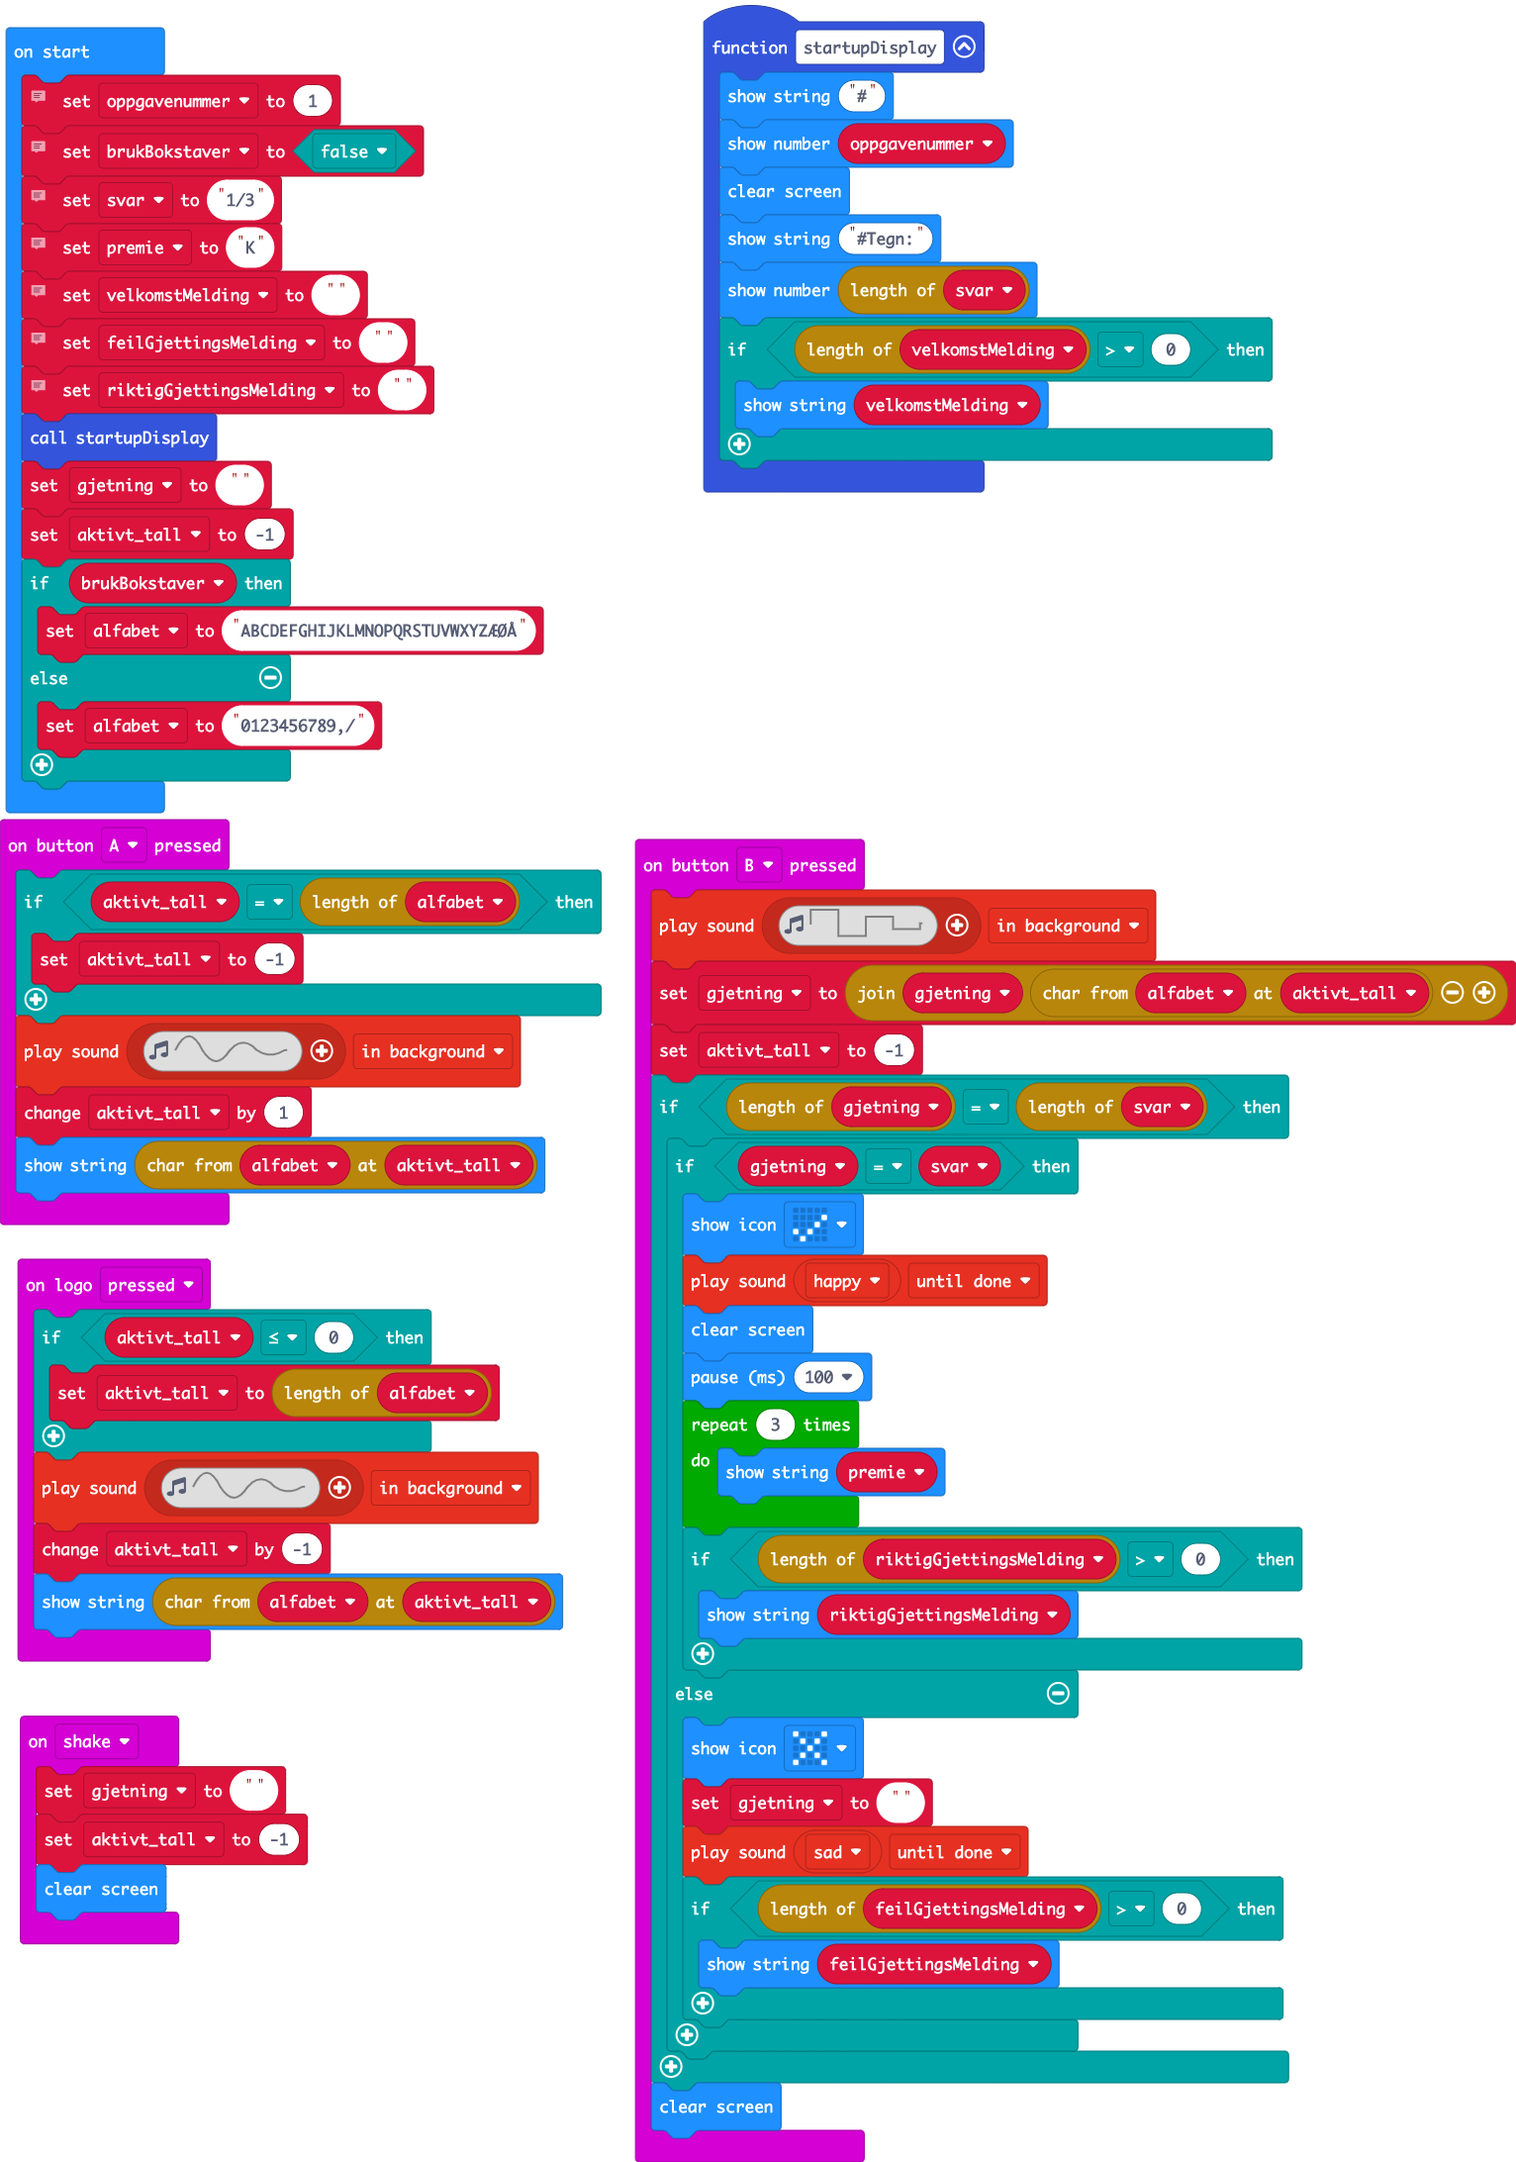
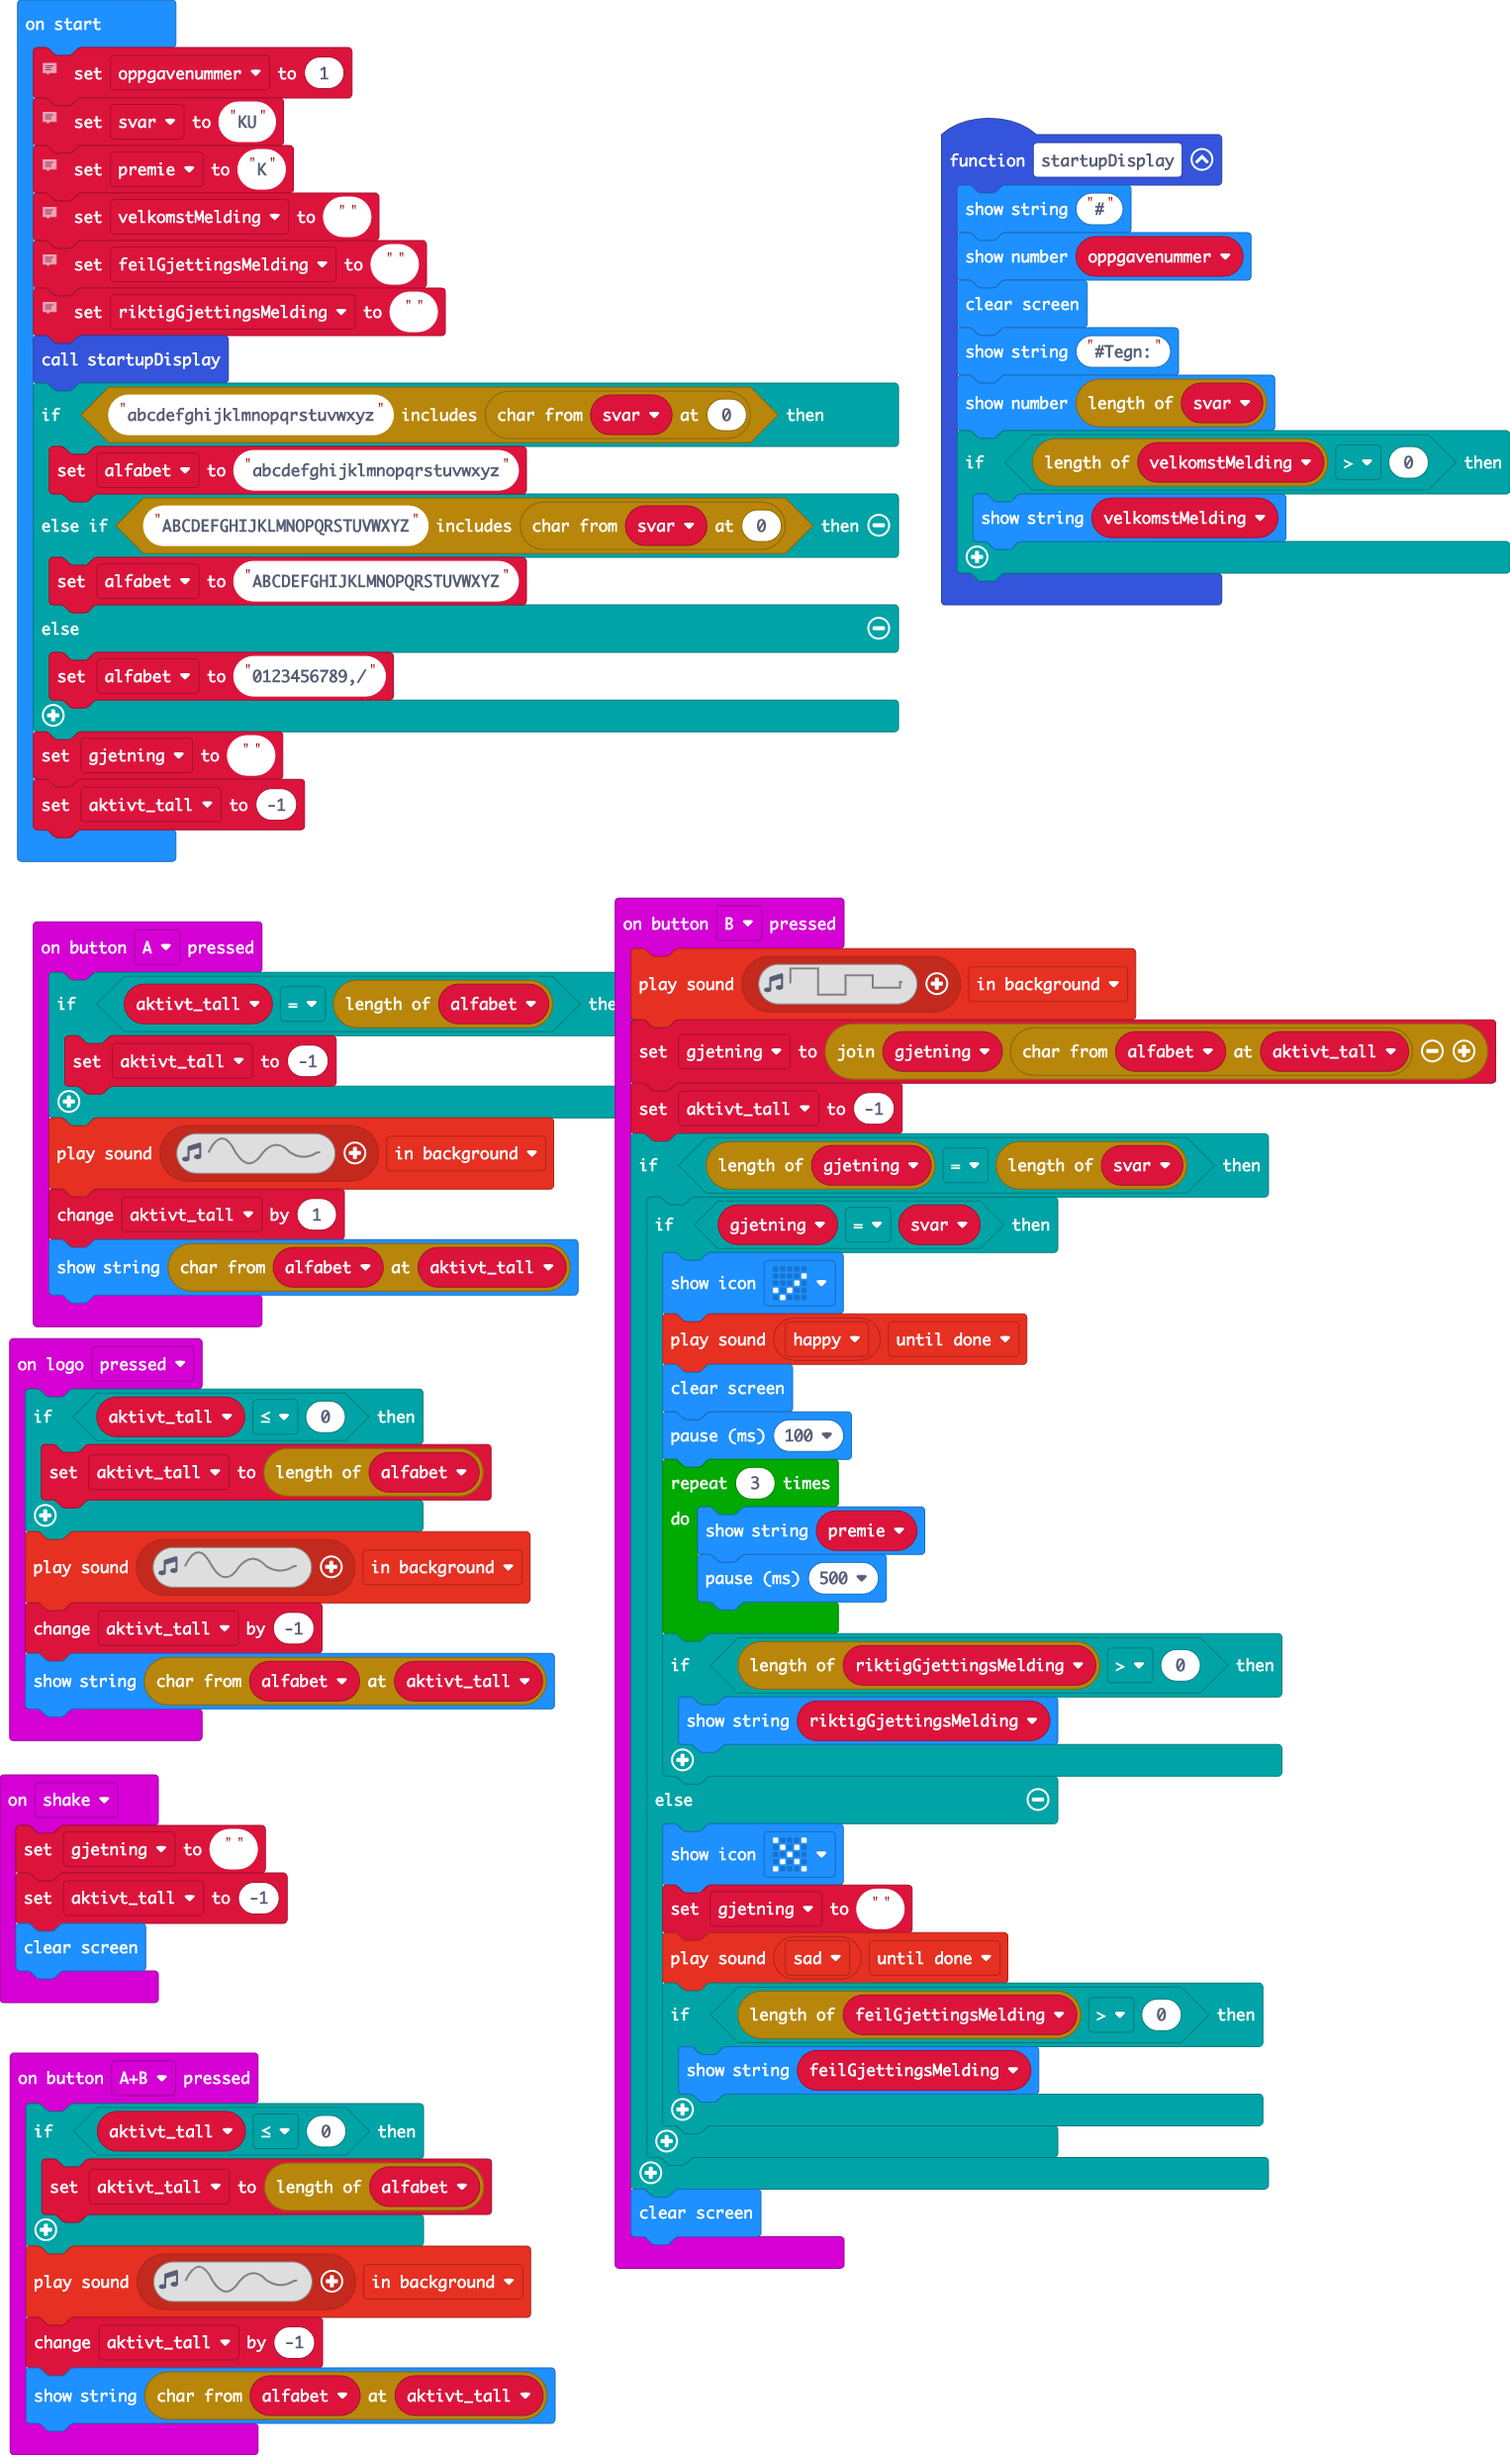
removes brukBokstaver bool and infers answer type from svar

diff --git a/main.ts b/main.ts
@@ -6,6 +6,14 @@ input.onButtonPressed(Button.A, function () {
     aktivt_tall += 1
     basic.showString(alfabet.charAt(aktivt_tall))
 })
+input.onButtonPressed(Button.AB, function () {
+    if (aktivt_tall <= 0) {
+        aktivt_tall = alfabet.length
+    }
+    music.playSoundEffect(music.createSoundEffect(WaveShape.Sine, 500, 500, 255, 0, 15, SoundExpressionEffect.Vibrato, InterpolationCurve.Linear), SoundExpressionPlayMode.InBackground)
+    aktivt_tall += -1
+    basic.showString(alfabet.charAt(aktivt_tall))
+})
 input.onButtonPressed(Button.B, function () {
     music.playSoundEffect(music.createSoundEffect(WaveShape.Square, 400, 600, 255, 0, 100, SoundExpressionEffect.Warble, InterpolationCurve.Linear), SoundExpressionPlayMode.InBackground)
     gjetning = "" + gjetning + alfabet.charAt(aktivt_tall)
@@ -18,6 +26,7 @@ input.onButtonPressed(Button.B, function () {
             basic.pause(100)
             for (let index = 0; index < 3; index++) {
                 basic.showString(premie)
+                basic.pause(500)
             }
             if (riktigGjettingsMelding.length > 0) {
                 basic.showString(riktigGjettingsMelding)
@@ -56,9 +65,9 @@ input.onLogoEvent(TouchButtonEvent.Pressed, function () {
     aktivt_tall += -1
     basic.showString(alfabet.charAt(aktivt_tall))
 })
-let alfabet = ""
 let aktivt_tall = 0
 let gjetning = ""
+let alfabet = ""
 let riktigGjettingsMelding = ""
 let feilGjettingsMelding = ""
 let velkomstMelding = ""
@@ -67,10 +76,8 @@ let svar = ""
 let oppgavenummer = 0
 // Denne variabelen er et heltall (integer). Dette er oppgavenummeret eller postnummeret. Det kan hjelpe deg å sortere microbitene og det kan hjelpe elevene til å finne ut rekkefølgen på oppgavene.
 oppgavenummer = 1
-// Denne variabelen er en boolean (enten true eller false). Hvis du setter den til true så må svaret kun inneholde bokstaver. Dersom den settes til false må svaret kun inneholde tall.
-let brukBokstaver = false
 // Denne variabelen er en tekststreng (string). Strengen kan enten inneholde bokstaver eller tall. Hvis du bruker bokstaver må brukBokstaver settes til true. Hvis du bruker tall må brukBokstaver settes til false.
-svar = "1/3"
+svar = "KU"
 // Denne variabelen er en tekststreng (string). Dette er premien eller hintet som elevene får med seg videre til neste oppgave
 premie = "K"
 // Denne meldingen vises til elevene før oppgaven. Kan f.eks. inneholde hint.
@@ -80,10 +87,12 @@ feilGjettingsMelding = ""
 // Denne teksten vises til elevene hvis de gjetter riktig. Kan f.eks. inneholde instruksjoner om hvor de finner neste oppgave.
 riktigGjettingsMelding = ""
 startupDisplay()
-gjetning = ""
-aktivt_tall = -1
-if (brukBokstaver) {
-    alfabet = "ABCDEFGHIJKLMNOPQRSTUVWXYZÆØÅ"
+if ("abcdefghijklmnopqrstuvwxyz".includes(svar.charAt(0))) {
+    alfabet = "abcdefghijklmnopqrstuvwxyz"
+} else if ("ABCDEFGHIJKLMNOPQRSTUVWXYZ".includes(svar.charAt(0))) {
+    alfabet = "ABCDEFGHIJKLMNOPQRSTUVWXYZ"
 } else {
     alfabet = "0123456789,/"
 }
+gjetning = ""
+aktivt_tall = -1
